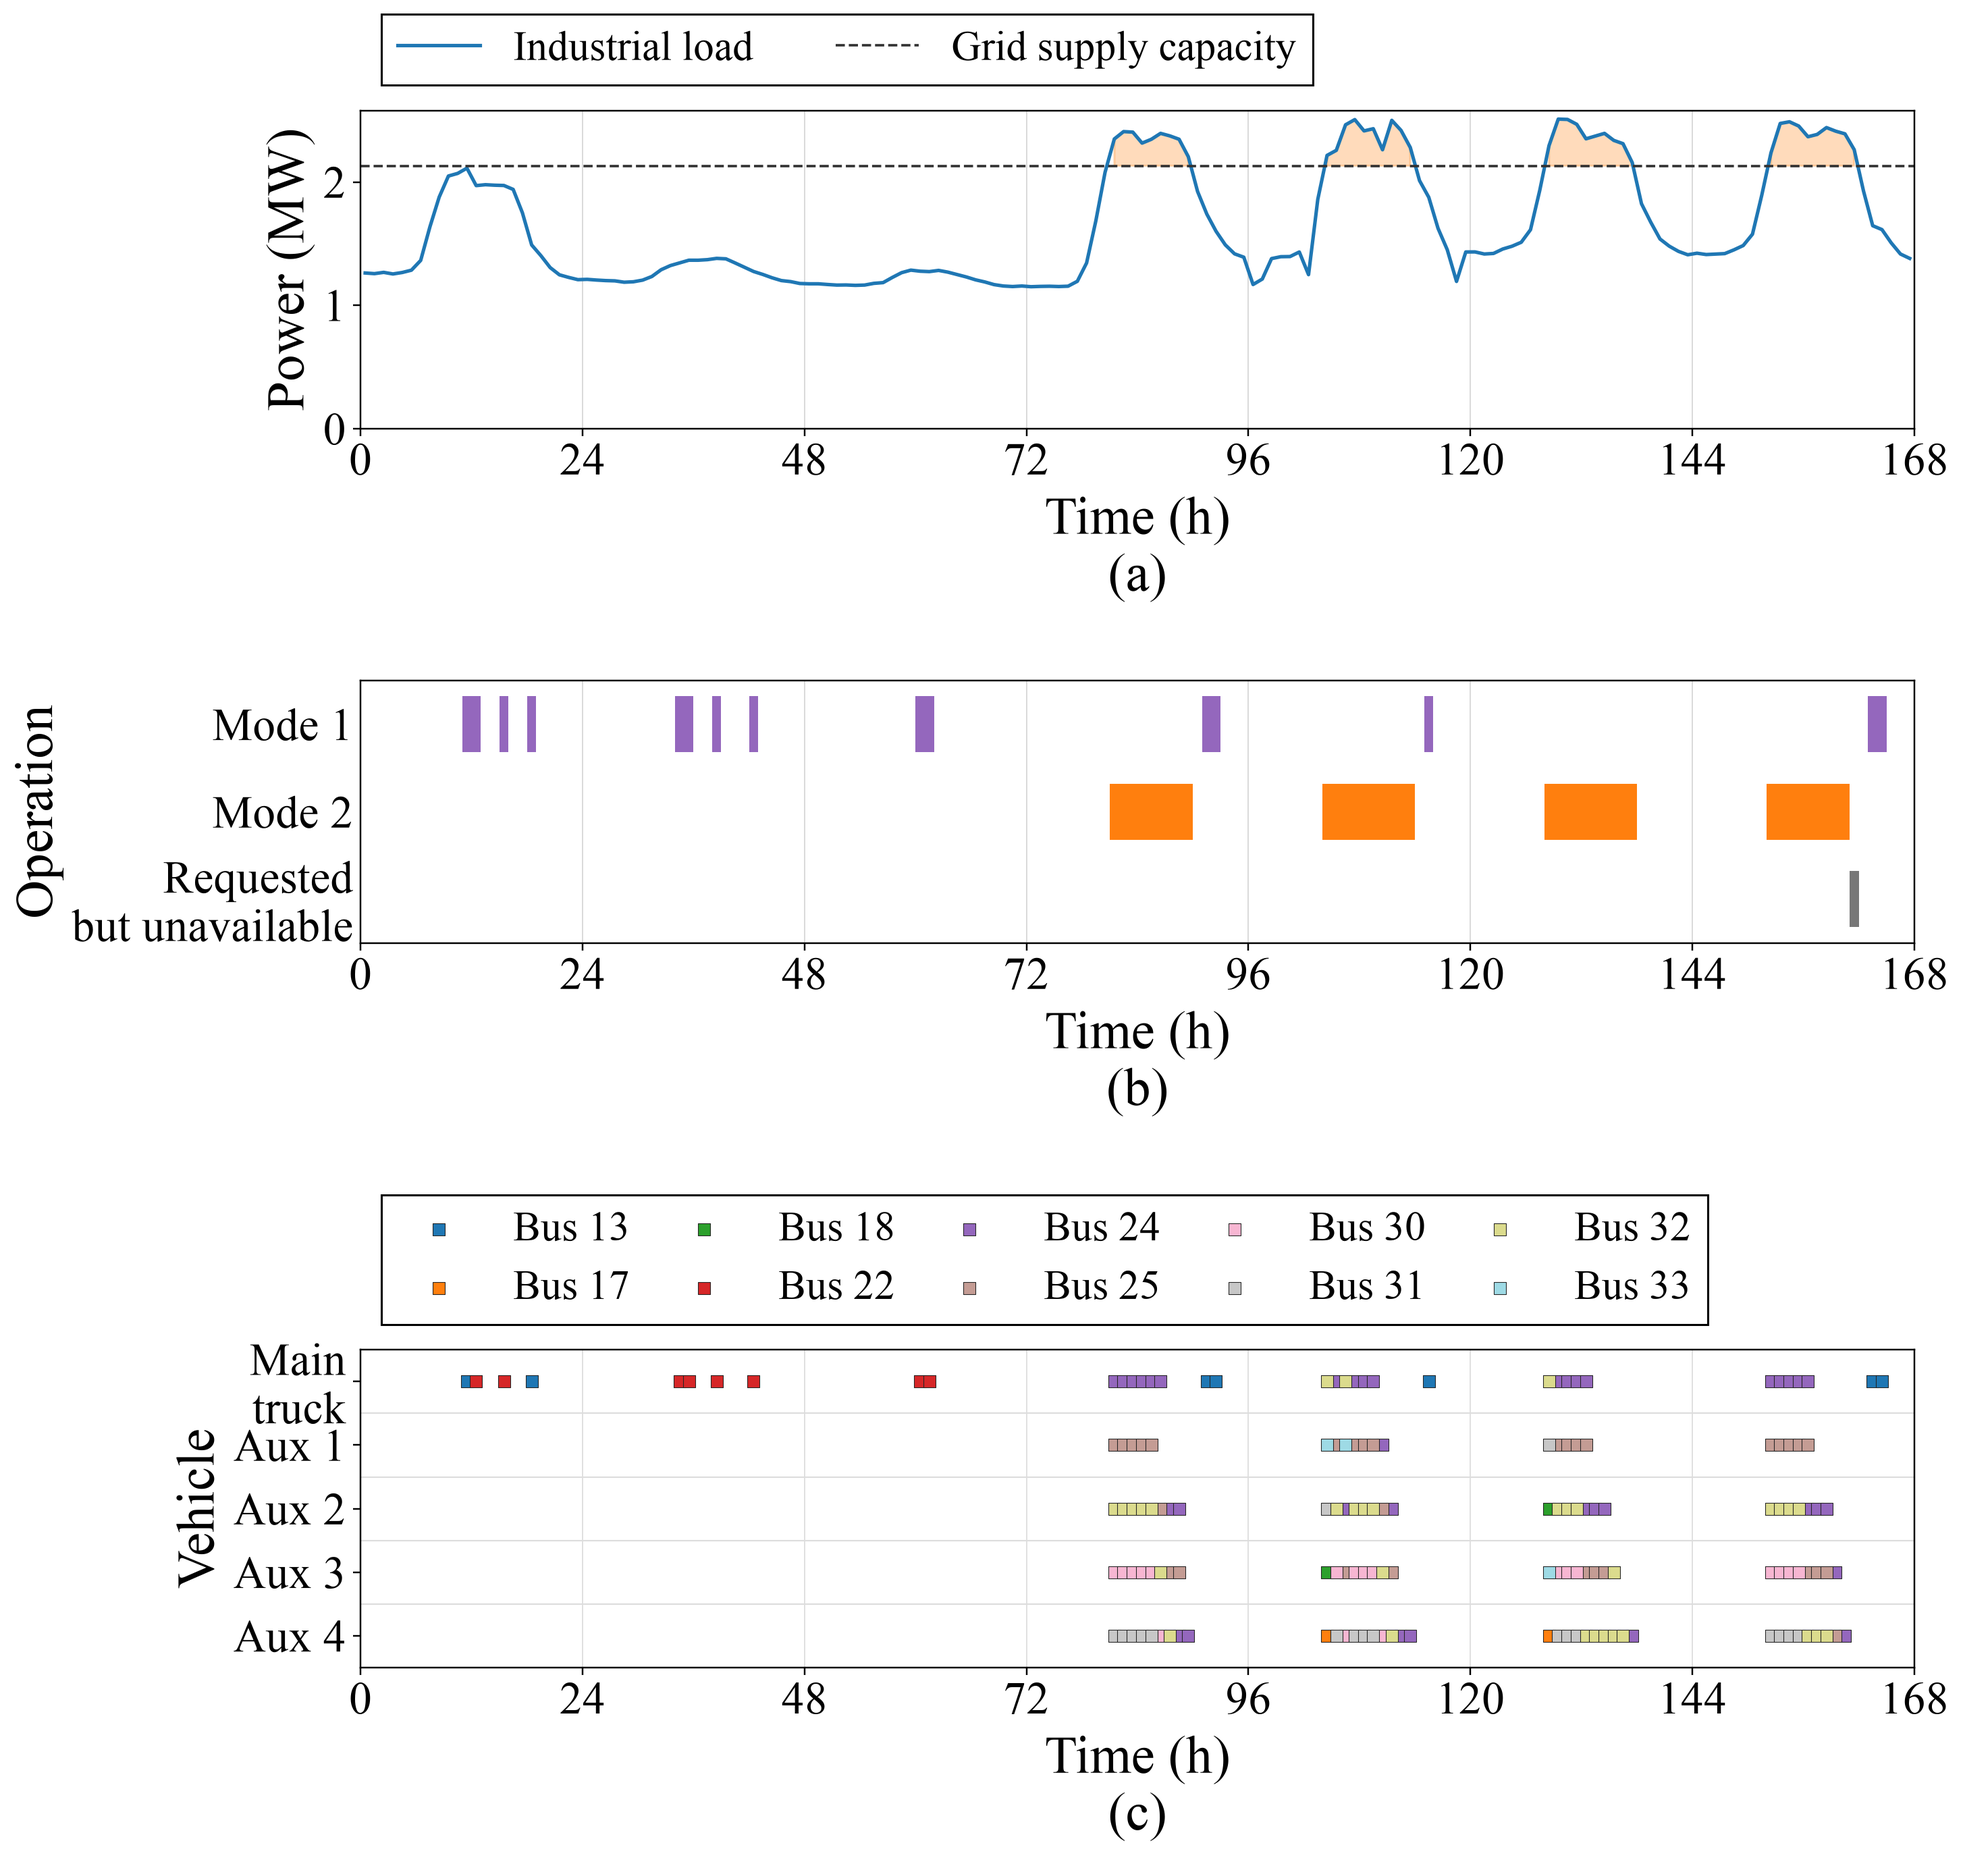
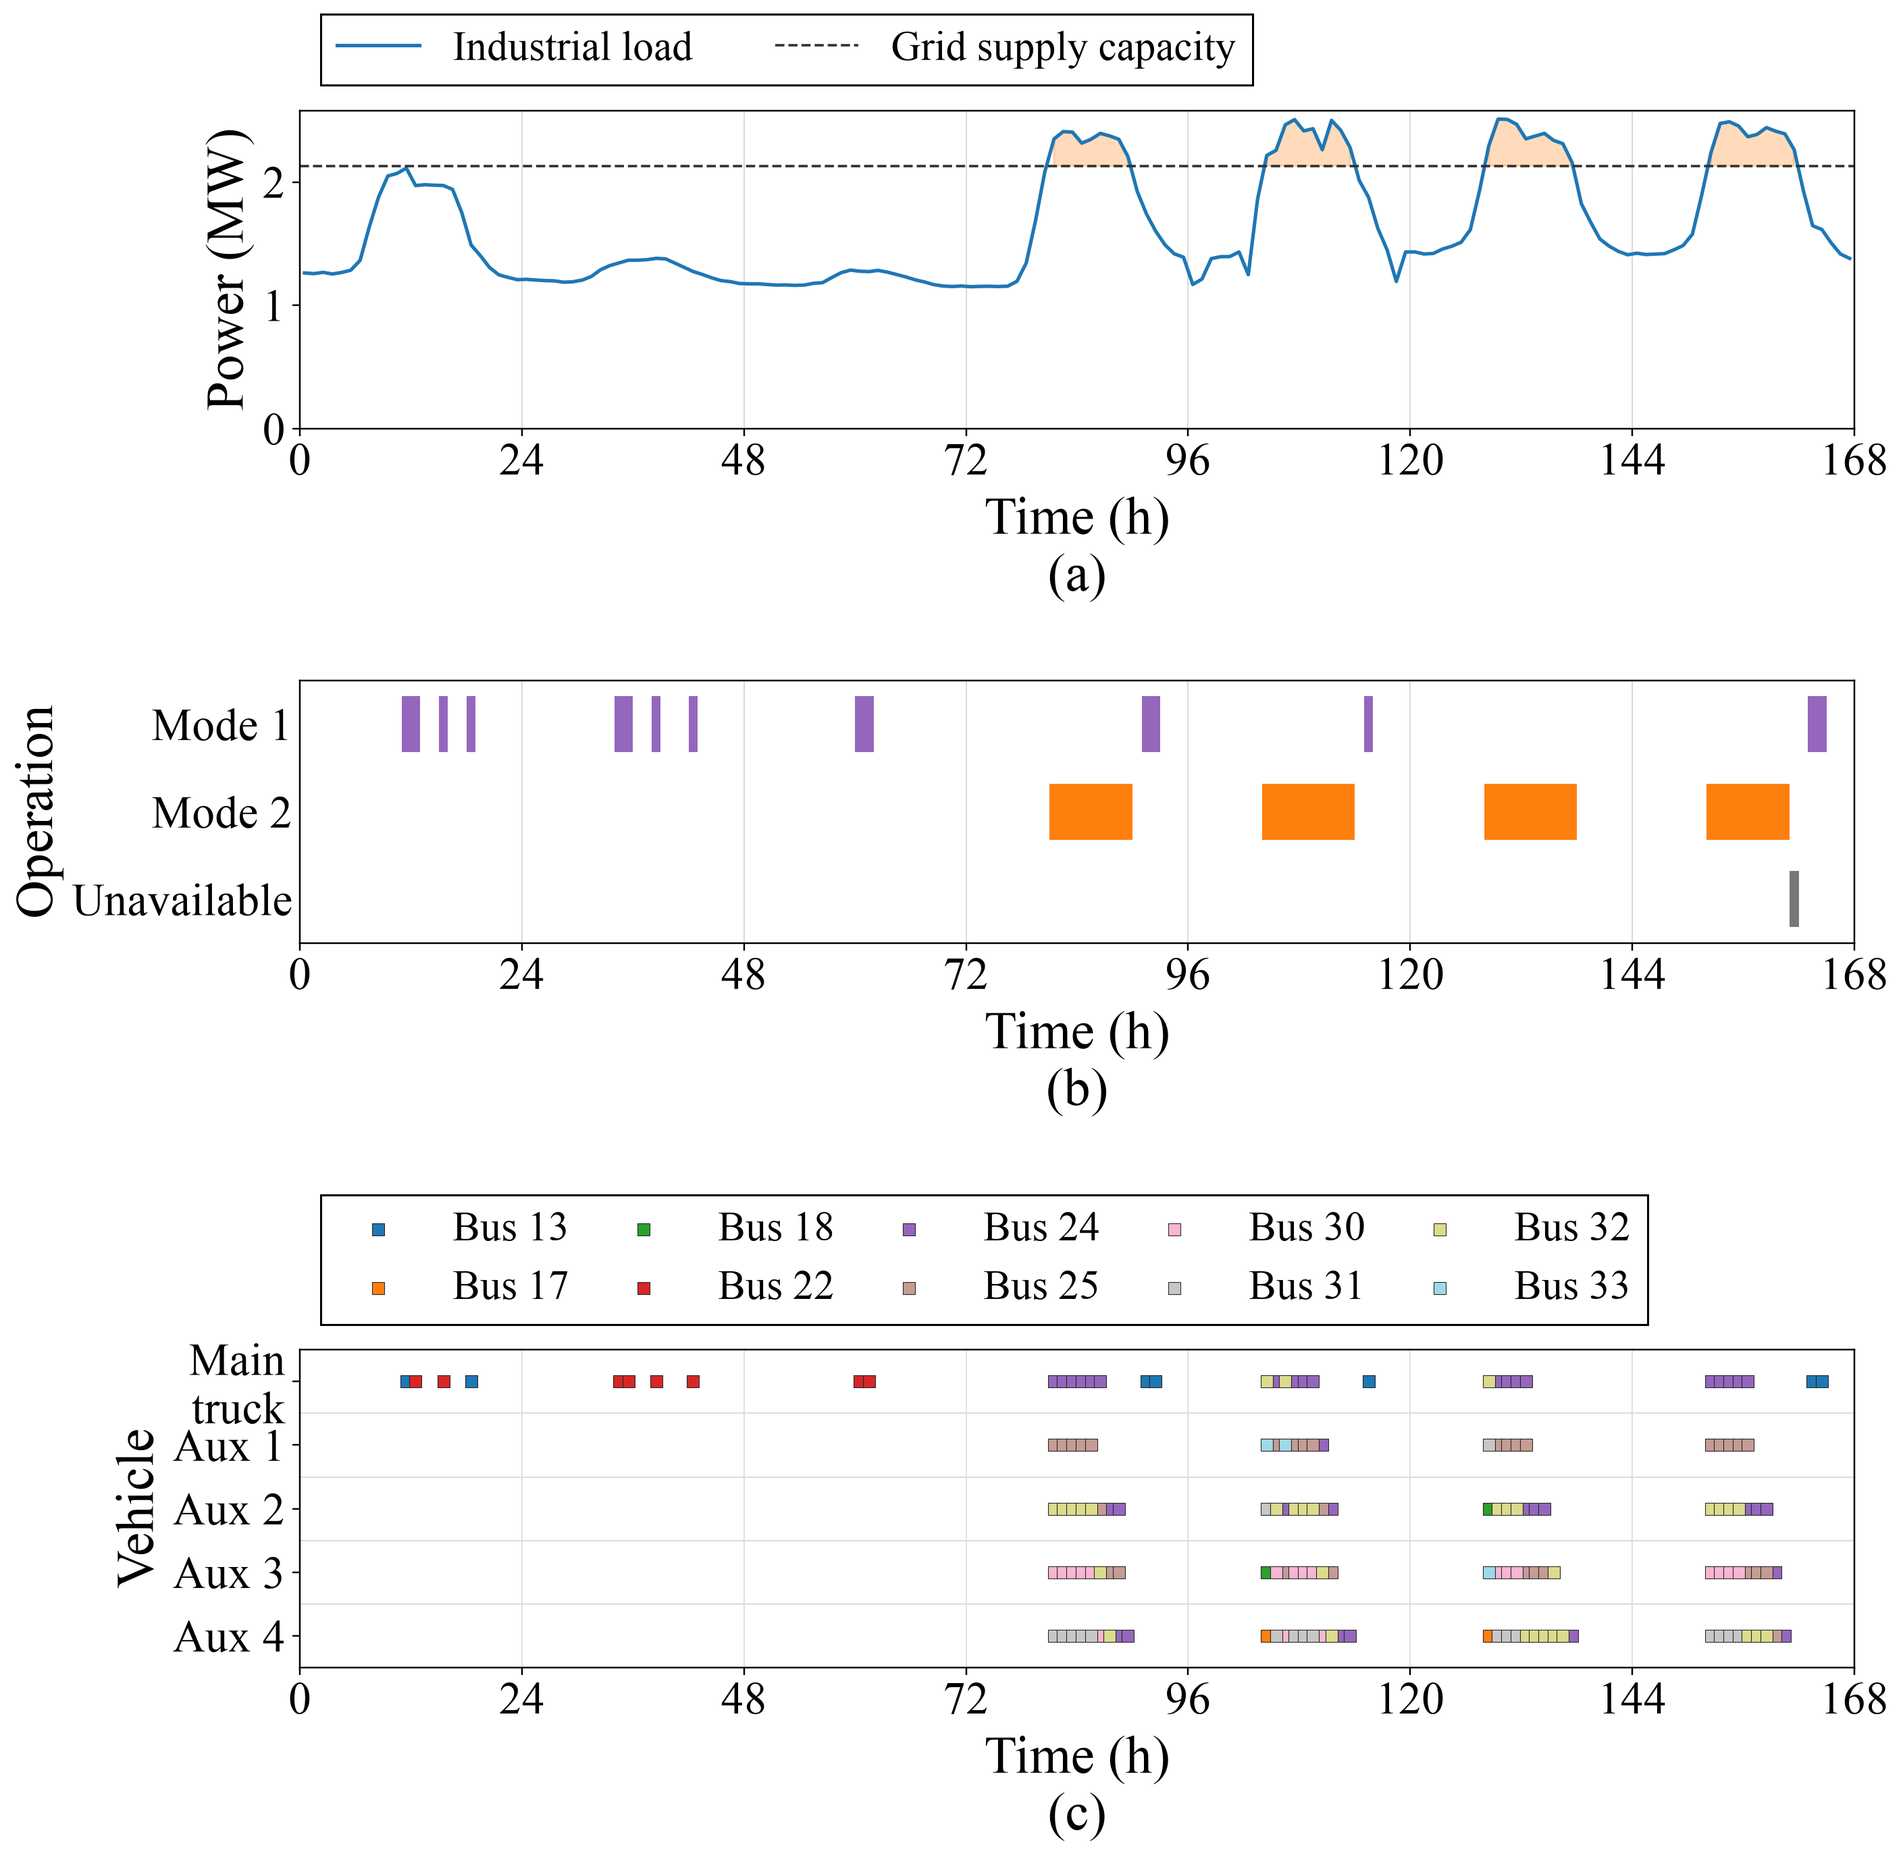
Shorten unavailable state label in Figure 13

diff --git a/nodal_redesign_v2/plots.py b/nodal_redesign_v2/plots.py
@@ -128,7 +128,7 @@ def _draw_operation_timeline(axis: plt.Axes, run: CaseRun) -> None:
     ]
     unavailable = (hourly.mode2_trigger & ~hourly.supply_active).to_numpy(dtype=bool)
     if unavailable.any():
-        states.append(("Requested\nbut unavailable", unavailable, "#777777"))
+        states.append(("Unavailable", unavailable, "#777777"))
     for row, (_, mask, color) in enumerate(states):
         axis.broken_barh(
             [(start, stop - start) for start, stop in _intervals(mask)],
